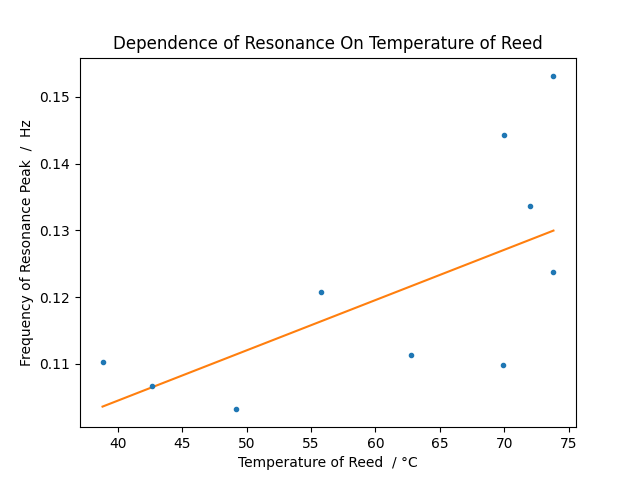
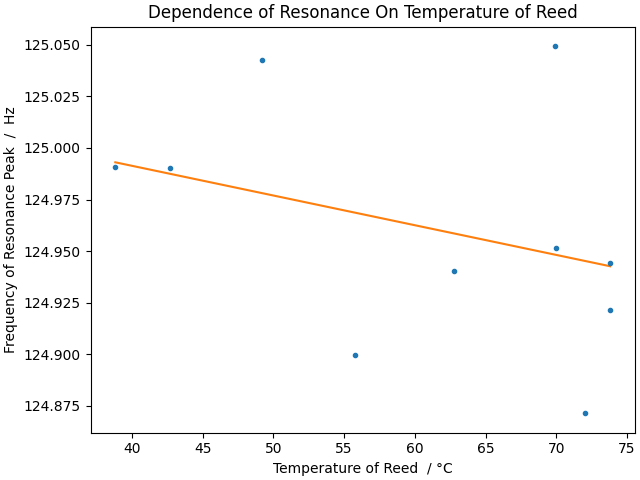
make graph graph right thing and make fit right thing

diff --git a/F75 Computers and Data/Lab Report/exp_b/analysis.tex b/F75 Computers and Data/Lab Report/exp_b/analysis.tex
@@ -88,8 +88,8 @@ For completeness, we list the vertical offset along with this coefficient in the
 \begin{gather}
     \boxed{
         \begin{aligned}
-            &m &&= 0.0007543430168119805 ± 0.000005076551579470997 \\
-            &b &&= 0.0742942264347062 ± 0.00030210560798692615
+            &m &&= -0.001441 ± 0.000014 \\
+            &b &&= 125.0490 ± 0.0009
         \end{aligned}
     }
 \end{gather}
